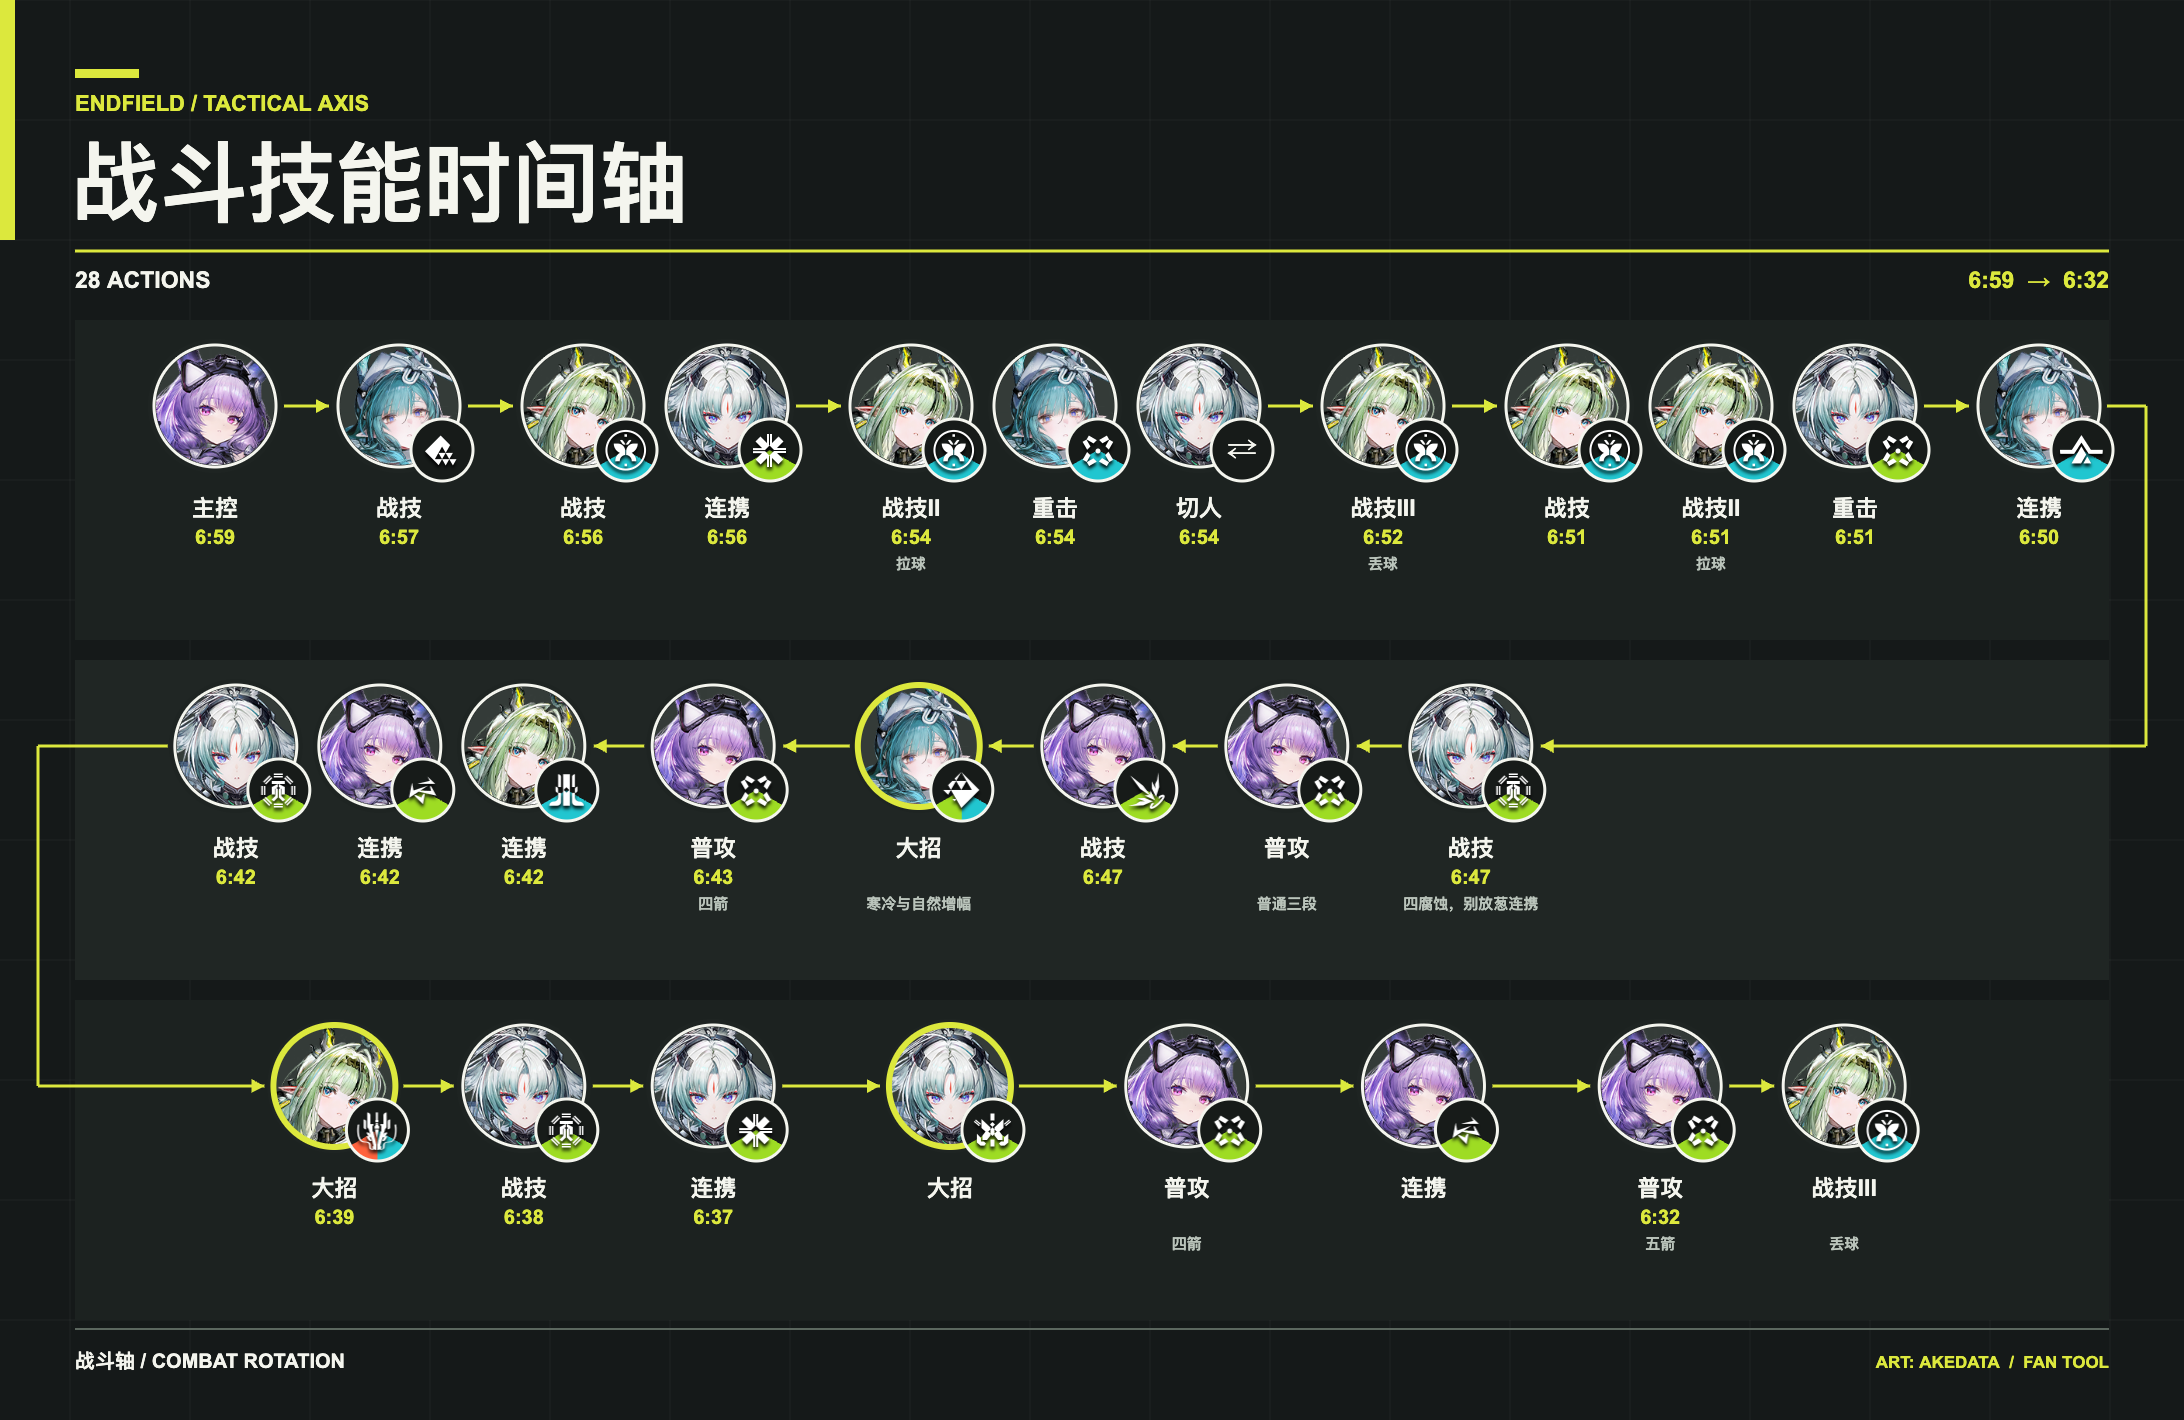
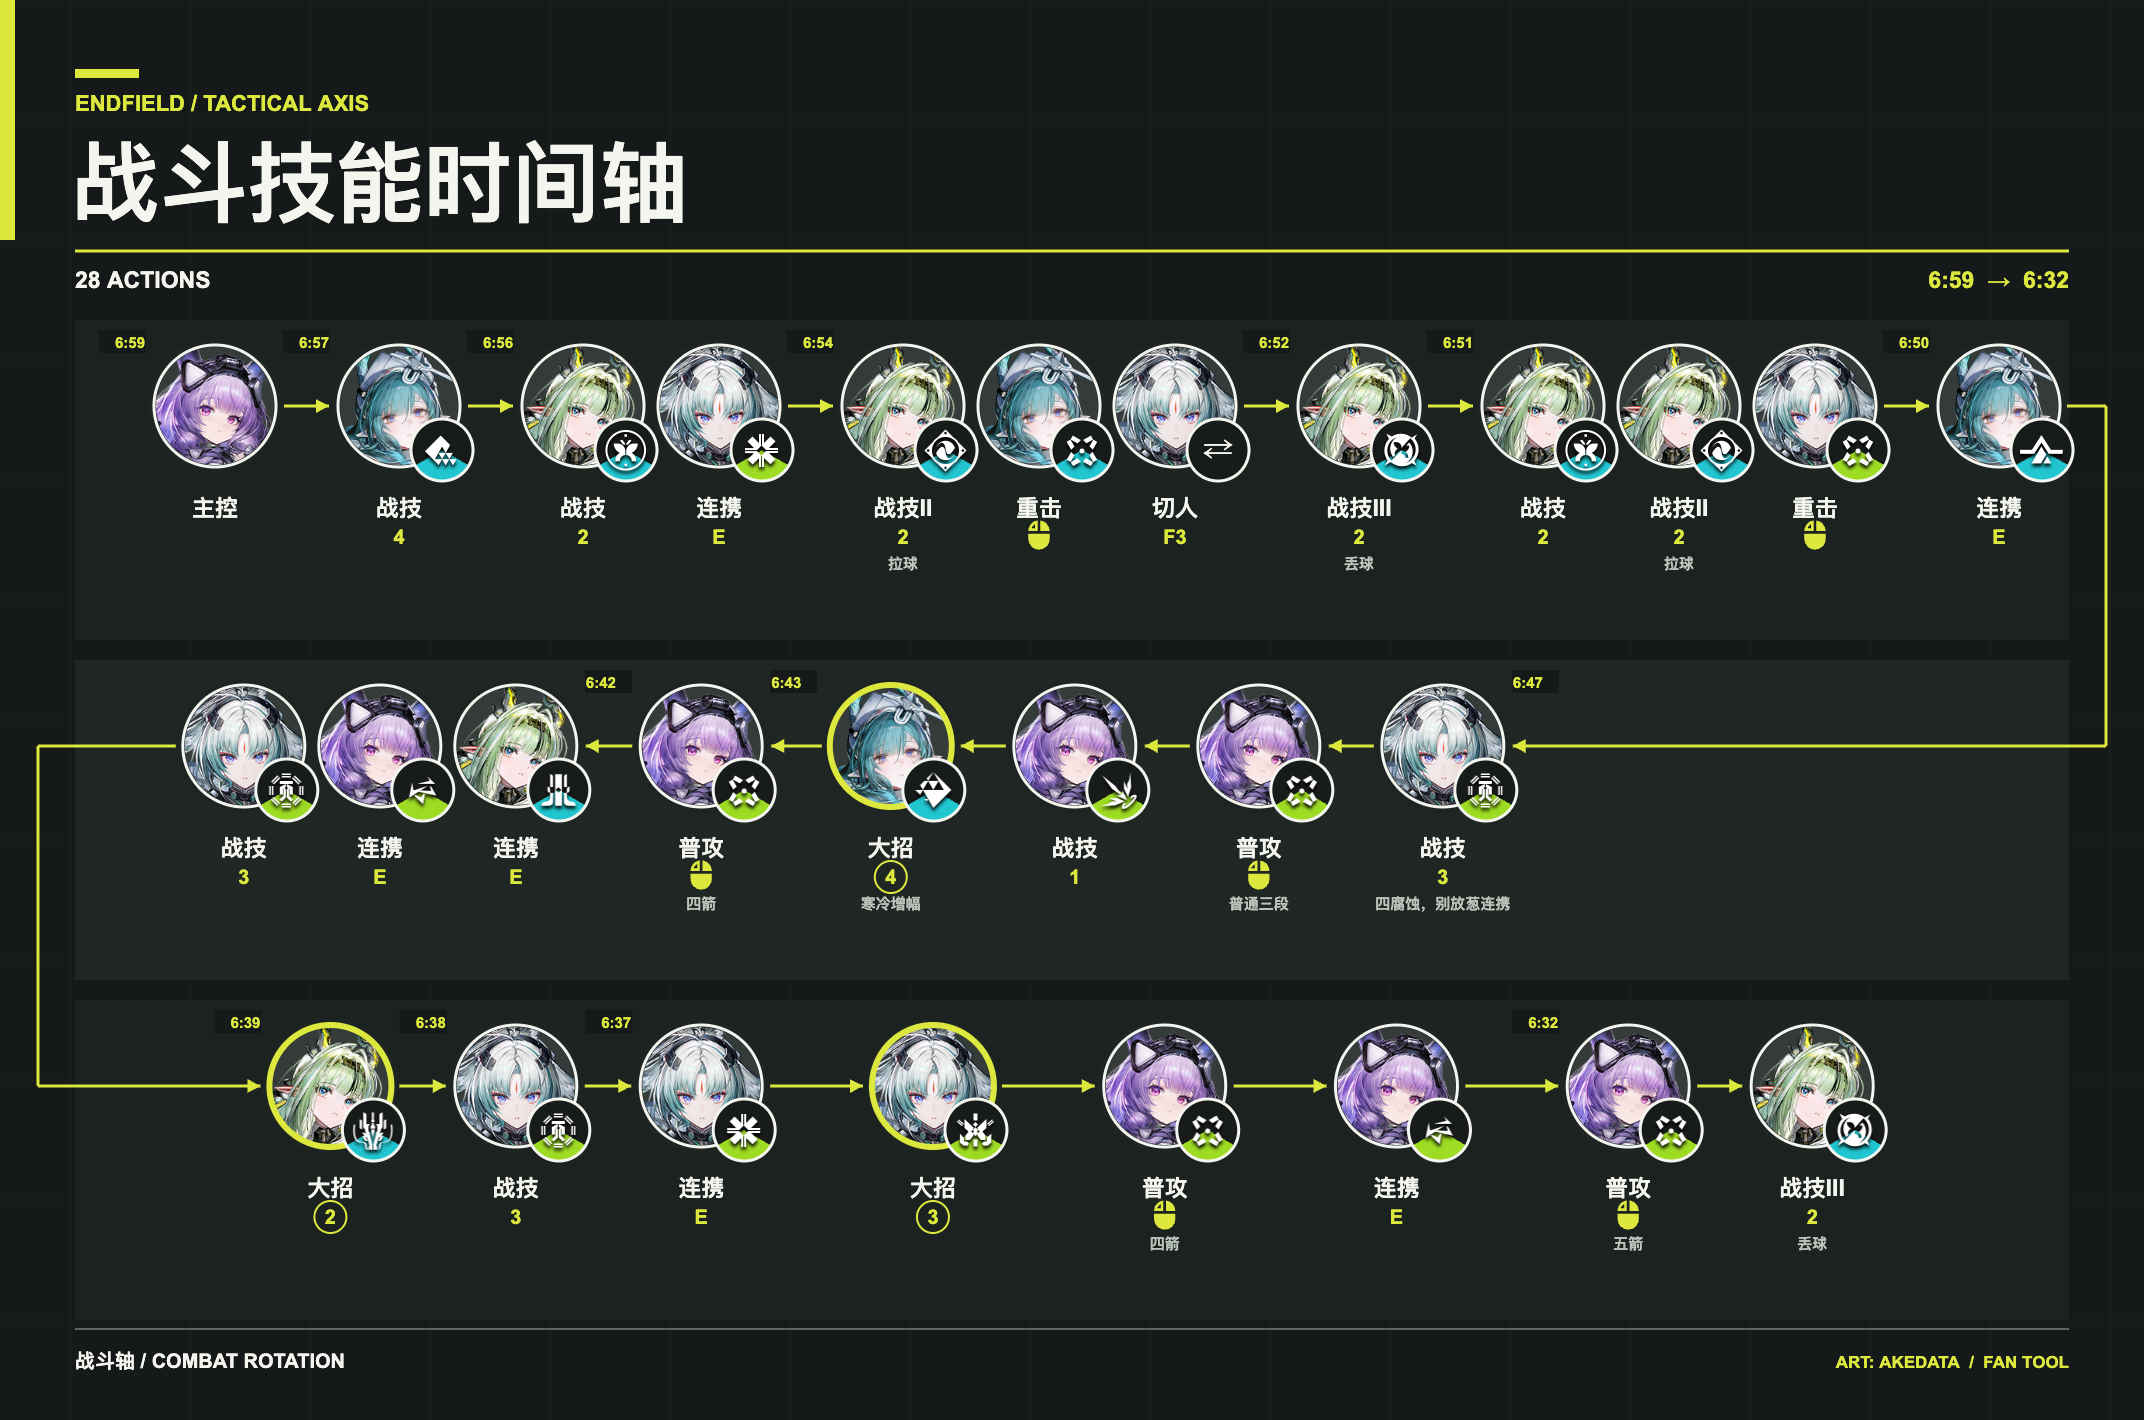
Render rotation controls and compact timestamps

diff --git a/app.js b/app.js
@@ -7,12 +7,13 @@ const download = document.querySelector('#download');
 const ctx = canvas.getContext('2d');
 const base = 'assets/operators/';
 const operators = {
-  '赛希': { file: 'saixi', attack: 'attack-funnel', elements: { '普攻': ['寒冷'], '重击': ['寒冷'], '连携': ['寒冷'], '大招': ['寒冷', '自然'] } },
-  '祀': { file: 'si', attack: 'attack-claymore', elements: { '普攻': ['寒冷'], '重击': ['寒冷'], '战技': ['寒冷'], '战技II': ['寒冷'], '战技III': ['寒冷'], '连携': ['寒冷'], '大招': ['寒冷', '灼热'] } },
-  '诀': { file: 'jue', attack: 'attack-funnel', elements: { '普攻': ['自然'], '重击': ['自然'], '战技': ['自然'], '连携': ['自然'], '大招': ['自然'] } },
-  '提弗洛斯': { file: 'typhoea', attack: 'attack-funnel', elements: { '普攻': ['自然'], '重击': ['自然'], '战技': ['自然'], '连携': ['自然'], '大招': ['自然'] } }
+  '赛希': { file: 'saixi', attack: 'attack-funnel', elements: { '普攻': '寒冷', '重击': '寒冷', '战技': '寒冷', '连携': '寒冷', '大招': '寒冷' } },
+  '祀': { file: 'si', attack: 'attack-claymore', elements: { '普攻': '寒冷', '重击': '寒冷', '战技': '寒冷', '战技II': '寒冷', '战技III': '寒冷', '连携': '寒冷', '大招': '寒冷' } },
+  '诀': { file: 'jue', attack: 'attack-funnel', elements: { '普攻': '自然', '重击': '自然', '战技': '自然', '连携': '自然', '大招': '自然' } },
+  '提弗洛斯': { file: 'typhoea', attack: 'attack-funnel', elements: { '普攻': '自然', '重击': '自然', '战技': '自然', '连携': '自然', '大招': '自然' } }
 };
-const aliases = { '提丰': '提弗洛斯' };
+const defaultParty = ['提弗洛斯', '祀', '诀', '赛希'];
+const defaultAliases = { '提丰': '提弗洛斯', '小葱': '祀' };
 const actions = new Set(['主控', '战技', '战技II', '战技III', '连携', '大招', '普攻', '重击', '切人', '其他', '闪避']);
 const imageTasks = new Map(), images = new Map();
 const colorsTask = fetch('assets/elements.toml').then(response => {
@@ -27,14 +28,21 @@ function parseDocument(source, configSource) {
   const title = config.title || '战斗技能时间轴';
   if (!Number.isInteger(rowSeconds) || rowSeconds < 1 || rowSeconds > 60) throw new Error('row_seconds 需要 1–60 的整数');
   if (typeof title !== 'string' || [...title].length > 14) throw new Error('title 最多 14 个字');
+  const aliases = { ...defaultAliases, ...config.aliases };
+  const resolve = name => aliases[name] || name;
+  const party = config.operators ?? defaultParty;
+  if (!Array.isArray(party)) throw new Error('operators 需要四名干员的数组');
+  const slots = party.map(resolve);
+  if (slots.length !== 4 || new Set(slots).size !== 4 || slots.some(name => !operators[name])) throw new Error('operators 需要四名不重复的已知干员');
   const parsed = Papa.parse(source, { header: true, skipEmptyLines: 'greedy', transformHeader: value => value.trim() });
   if (parsed.errors.length) throw new Error(`CSV 第 ${parsed.errors[0].row + 2} 行：${parsed.errors[0].message}`);
   if (!['operator', 'action', 'time', 'note'].every(name => parsed.meta.fields?.includes(name))) throw new Error('CSV 表头需要 operator,action,time,note');
   let previous = Infinity;
   const steps = parsed.data.map((record, index) => {
-    const operator = aliases[record.operator?.trim()] || record.operator?.trim();
+    const operator = resolve(record.operator?.trim());
     const action = record.action?.trim(), rawTime = record.time?.trim(), note = record.note?.trim() || '';
     if (!operators[operator]) throw new Error(`第 ${index + 2} 行：未知干员 ${operator || '（空）'}`);
+    if (!slots.includes(operator)) throw new Error(`第 ${index + 2} 行：${operator} 不在 operators 中`);
     if (!actions.has(action)) throw new Error(`第 ${index + 2} 行：未知动作 ${action || '（空）'}`);
     if (action === '其他' && (!note || [...note].length > 7)) throw new Error(`第 ${index + 2} 行：其他动作的备注需要 1–7 个字`);
     if ([...note].length > 36) throw new Error(`第 ${index + 2} 行：备注最多 36 个字`);
@@ -46,7 +54,7 @@ function parseDocument(source, configSource) {
       if (time > previous) throw new Error(`第 ${index + 2} 行：时间不能上升`);
       previous = time;
     }
-    return { operator, action, time, note, elements: operators[operator].elements[action] || [] };
+    return { operator, action, time, note, slot: slots.indexOf(operator) + 1, element: operators[operator].elements[action] || null };
   });
   if (!steps.length || steps.every(step => step.time === null)) throw new Error('至少需要一条动作和一个时间');
   const known = steps.map((step, i) => step.time === null ? -1 : i).filter(i => i >= 0);
@@ -63,6 +71,8 @@ function parseDocument(source, configSource) {
 function assetName(step) {
   const op = operators[step.operator];
   if (step.action === '普攻' || step.action === '重击') return op.attack;
+  if (step.operator === '祀' && step.action === '战技II') return 'si-skill-ii';
+  if (step.operator === '祀' && step.action === '战技III') return 'si-skill-iii';
   const type = { '战技': 'skill', '战技II': 'skill', '战技III': 'skill', '连携': 'combo', '大招': 'ultimate' }[step.action];
   return type ? `${op.file}-${type}` : null;
 }
@@ -72,7 +82,7 @@ function loadImage(name) {
     const image = new Image();
     image.onload = () => resolve(image);
     image.onerror = () => reject(new Error(`无法加载图片：${name}`));
-    image.src = `${base}${name}.png`;
+    image.src = name.startsWith('mouse-') ? `assets/keys/${name}.svg` : `${base}${name}.png`;
   }));
   return imageTasks.get(name);
 }
@@ -101,7 +111,7 @@ function timeLabel(seconds) {
 }
 
 function sameSecond(a, b) { return a.time !== null && a.time === b.time; }
-function nodeGap(a, b) { return sameSecond(a, b) ? 144 : 184; }
+function nodeGap(a, b) { return sameSecond(a, b) ? 136 : 184; }
 
 function layout(steps, width, rowSeconds) {
   const start = Math.floor(steps[0].position / rowSeconds);
@@ -139,7 +149,7 @@ function circleImage(image, x, y, radius, portrait = false) {
   ctx.restore();
 }
 
-function drawNode(node, y) {
+function drawNode(node, y, direction, showTime) {
   const x = node.x, portrait = images.get(`${operators[node.operator].file}-portrait`);
   const accent = node.action === '大招' ? '#dce83d' : '#f4f5ee';
   const badge = assetName(node), cx = x + 43, cy = y + 44;
@@ -150,12 +160,10 @@ function drawNode(node, y) {
   if (badge || node.action === '切人' || node.action === '闪避') {
     ctx.save(); ctx.beginPath(); ctx.arc(cx, cy, 31, 0, Math.PI * 2); ctx.clip();
     ctx.fillStyle = '#171b19'; ctx.fillRect(cx - 31, cy - 31, 62, 62);
-    node.elements.forEach((element, index) => {
-      const start = (30 + (node.elements.length === 1 ? 0 : index * 60)) * Math.PI / 180;
-      const end = (node.elements.length === 1 ? 150 : 90 + index * 60) * Math.PI / 180;
-      ctx.fillStyle = colors[element]; ctx.beginPath(); ctx.moveTo(cx, cy);
-      ctx.arc(cx, cy, 31, start, end); ctx.closePath(); ctx.fill();
-    });
+    if (node.element && badge) {
+      ctx.fillStyle = colors[node.element]; ctx.beginPath(); ctx.moveTo(cx, cy);
+      ctx.arc(cx, cy, 31, Math.PI / 6, Math.PI * 5 / 6); ctx.closePath(); ctx.fill();
+    }
     ctx.restore();
     ctx.strokeStyle = '#f4f5ee'; ctx.lineWidth = 3;
     ctx.beginPath(); ctx.arc(cx, cy, 31, 0, Math.PI * 2); ctx.stroke();
@@ -168,7 +176,23 @@ function drawNode(node, y) {
     else text(node.action === '切人' ? '⇄' : '闪', cx, cy + 11, '800 31px Arial, "PingFang SC"', '#f4f5ee', 'center');
   }
   text(node.action === '其他' ? node.note : node.action, x, y + 110, '800 23px Arial, "PingFang SC", sans-serif', '#f4f5ee', 'center');
-  if (node.time !== null) text(timeLabel(node.time), x, y + 138, '800 20px Arial', '#dce83d', 'center');
+  if (showTime) {
+    const tx = x - direction * 70;
+    ctx.fillStyle = '#151919'; ctx.fillRect(tx - (direction < 0 ? 1 : 46), y - 76, 47, 23);
+    text(timeLabel(node.time), tx, y - 58, '800 15px Arial', '#dce83d', direction > 0 ? 'right' : 'left');
+  }
+  const keyY = y + 138;
+  if (node.action === '普攻' || node.action === '重击' || node.action === '闪避') {
+    const mouse = node.action === '闪避' ? 'mouse-right' : 'mouse-left';
+    ctx.drawImage(images.get(mouse), x - 16, keyY - 25, 32, 32);
+  } else if (node.action === '大招') {
+    ctx.strokeStyle = '#dce83d'; ctx.lineWidth = 2;
+    ctx.beginPath(); ctx.arc(x, keyY - 7, 16, 0, Math.PI * 2); ctx.stroke();
+    text(String(node.slot), x, keyY, '800 20px Arial', '#dce83d', 'center');
+  } else {
+    const key = node.action === '切人' ? `F${node.slot}` : node.action === '连携' ? 'E' : node.action.startsWith('战技') ? String(node.slot) : '';
+    if (key) text(key, x, keyY, '800 20px Arial', '#dce83d', 'center');
+  }
   const chars = [...(node.action === '其他' ? '' : node.note)];
   for (let i = 0; i < chars.length; i += 9) text(chars.slice(i, i + 9).join(''), x, y + 163 + i / 9 * 18, '600 15px Arial, "PingFang SC", sans-serif', '#bac4bb', 'center');
 }
@@ -191,6 +215,7 @@ function draw({ title, rowSeconds, steps }) {
   text(`${String(steps.length).padStart(2, '0')} ACTIONS`, 75, 288, '800 23px Arial');
   text(`${timeLabel(steps[0].position)}  →  ${timeLabel(steps.at(-1).position)}`, width - 75, 288, '800 23px Arial', '#dce83d', 'right');
   let previous = null;
+  const shownTimes = new Set();
   lanes.forEach((lane, row) => {
     const top = 320 + row * 340, y = top + 86;
     const direction = row % 2 ? -1 : 1;
@@ -202,7 +227,11 @@ function draw({ title, rowSeconds, steps }) {
       arrow(routeX, y, lane.nodes[0].x - direction * 70, y);
     }
     lane.nodes.forEach((node, i) => { if (i && !sameSecond(lane.nodes[i - 1], node)) arrow(lane.nodes[i - 1].x + direction * 69, y, node.x - direction * 70, y); });
-    lane.nodes.forEach(node => drawNode(node, y));
+    lane.nodes.forEach(node => {
+      const showTime = node.time !== null && !shownTimes.has(node.time);
+      if (showTime) shownTimes.add(node.time);
+      drawNode(node, y, direction, showTime);
+    });
     if (lane.nodes.length) previous = { x: lane.nodes.at(-1).x, y, direction };
   });
   const foot = height - 65;
@@ -219,6 +248,8 @@ async function render() {
     const { steps, rowSeconds } = data;
     status.textContent = '正在加载本地图片…'; status.classList.remove('error');
     const names = new Set(steps.flatMap(step => [`${operators[step.operator].file}-portrait`, assetName(step)].filter(Boolean)));
+    if (steps.some(step => ['普攻', '重击'].includes(step.action))) names.add('mouse-left');
+    if (steps.some(step => step.action === '闪避')) names.add('mouse-right');
     colors = await colorsTask;
     await Promise.all([...names].map(async name => images.set(name, await loadImage(name))));
     draw(data);

diff --git a/README.md b/README.md
@@ -4,12 +4,12 @@
 
 在仓库目录运行 `python3 -m http.server 4173`，打开 `http://127.0.0.1:4173/`。粘贴或导入 CSV 与海报 TOML，点击「生成预览」，再下载 PNG。运行时无需联网或安装依赖。
 
-CSV 表头为 `operator,action,time,note`，见[示例](examples/rotation.csv)。`operator` 用赛希、祀、诀、提弗洛斯；`提丰`是提弗洛斯的输入别名。`action` 用主控、战技、战技II、战技III、连携、大招、普攻、重击、切人、其他、闪避。`note` 是小字说明；动作是「其他」时，`note` 改为节点主标题。时间如 `6:57`，已填写的时间必须倒序，空白时间按相邻节点插值。同一秒的相邻节点不画箭头。属性不需要在 CSV 中填写；同一战技的后续阶段继承战技属性，双属性增幅用双色扇形。
+CSV 表头为 `operator,action,time,note`，见[示例](examples/rotation.csv)。`operator` 用赛希、祀、诀、提弗洛斯；`提丰`、`小葱`分别是提弗洛斯、祀的别名。`action` 用主控、战技、战技II、战技III、连携、大招、普攻、重击、切人、其他、闪避。`note` 是小字说明；动作是「其他」时，`note` 改为节点主标题。时间如 `6:57`，已填写的时间必须倒序，空白时间按相邻节点插值。同一秒的相邻节点不画箭头，只标一次时间。技能属性按干员和动作查表，每个动作至多一个属性。
 
-[海报 TOML](examples/poster.toml) 可设 `title`（默认“战斗技能时间轴”）和 `row_seconds`（默认 10，范围 1–60）；字段不写或文件为空时使用默认值。[示例图片](examples/rotation.png)由示例 CSV 和海报 TOML 生成。
+[海报 TOML](examples/poster.toml) 可设 `title`（默认“战斗技能时间轴”）、`row_seconds`（默认 10，范围 1–60）、`operators`（默认提弗洛斯、祀、诀、赛希）和 `[aliases]`。队伍顺序决定键位：切人 `F1`–`F4`，战技 `1`–`4`，连携 `E`，大招为圆圈内的 `1`–`4`；普攻、重击用鼠标左键图标，闪避用右键图标。未填写的 TOML 字段使用默认值。[示例图片](examples/rotation.png)由示例 CSV 和海报 TOML 生成。
 
-[视频 TOML](examples/video.toml) 暂定 `width`、`height`（默认 1920×1080）、`fps`（默认 30）、`seconds_visible`（默认 10，单行可见时间）和 `sync_offset_seconds`（默认 0，首条 CSV 动作在录屏中的秒数）。视频渲染尚未接入这组配置；当前透明测试片是固定演示，后续仍使用同一 CSV。
+[视频 TOML](examples/video.toml) 暂定 `width`、`height`（默认 1920×1080）、`fps`（默认 30）、`seconds_visible`（默认 10，单行可见时间）、`sync_offset_seconds`（默认 0，首条 CSV 动作在录屏中的秒数）、`operators` 和 `[aliases]`。视频渲染尚未接入这组配置；当前透明测试片是固定演示，后续仍使用同一 CSV。
 
 透明视频兼容性测试片均为 3 秒、1080p、30 fps，内容相同：[HEVC Alpha MOV](examples/alpha-test-hevc.mov)、[VP9 Alpha WebM](examples/alpha-test-vp9.webm)、[QuickTime Animation MOV](examples/alpha-test-animation.mov) 和 [ProRes 4444 MOV](examples/alpha-test.mov)。必剪已验证 QuickTime Animation 版本可播放。
 
-图片及属性配色来自 AKEData，详见[来源记录](assets/sources.csv)与[配色](assets/elements.toml)。新增干员素材时按 [.agents/skills/akedata-assets/SKILL.md](.agents/skills/akedata-assets/SKILL.md) 获取。CSV 和 TOML 解析器分别为仓库内的 Papa Parse（MIT）与 smol-toml（BSD-3-Clause）。
+人物图片及属性配色来自 AKEData；鼠标图标来自 Material Design Icons。详见[来源记录](assets/sources.csv)、[配色](assets/elements.toml)和[图标许可](assets/keys/LICENSE)。新增干员素材时按 [.agents/skills/akedata-assets/SKILL.md](.agents/skills/akedata-assets/SKILL.md) 获取。CSV 和 TOML 解析器分别为仓库内的 Papa Parse（MIT）与 smol-toml（BSD-3-Clause）。
